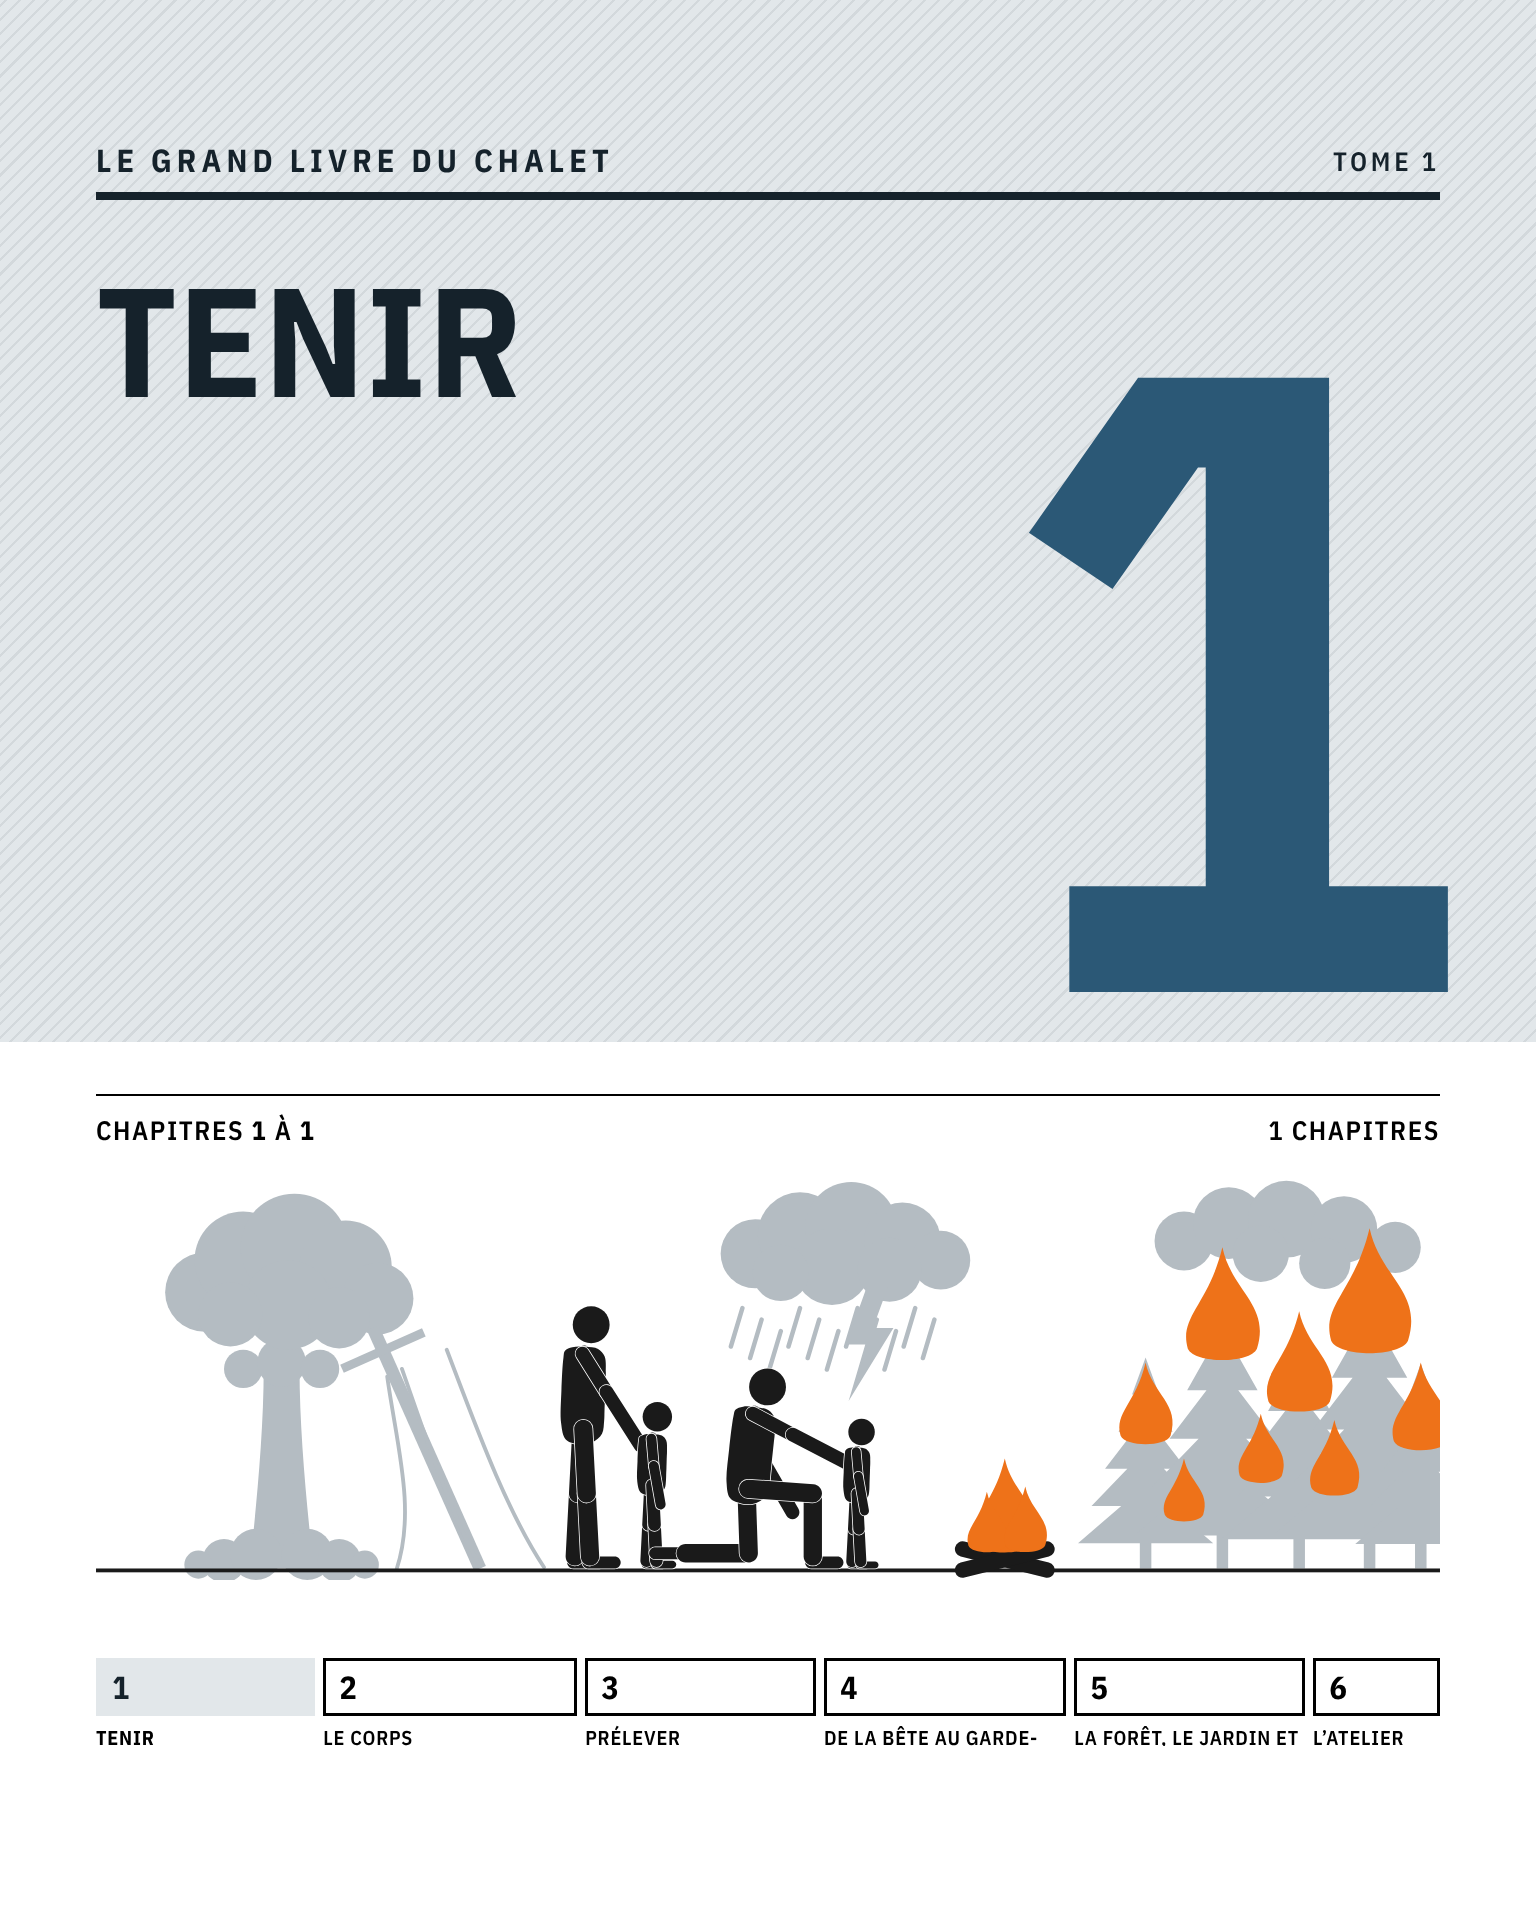
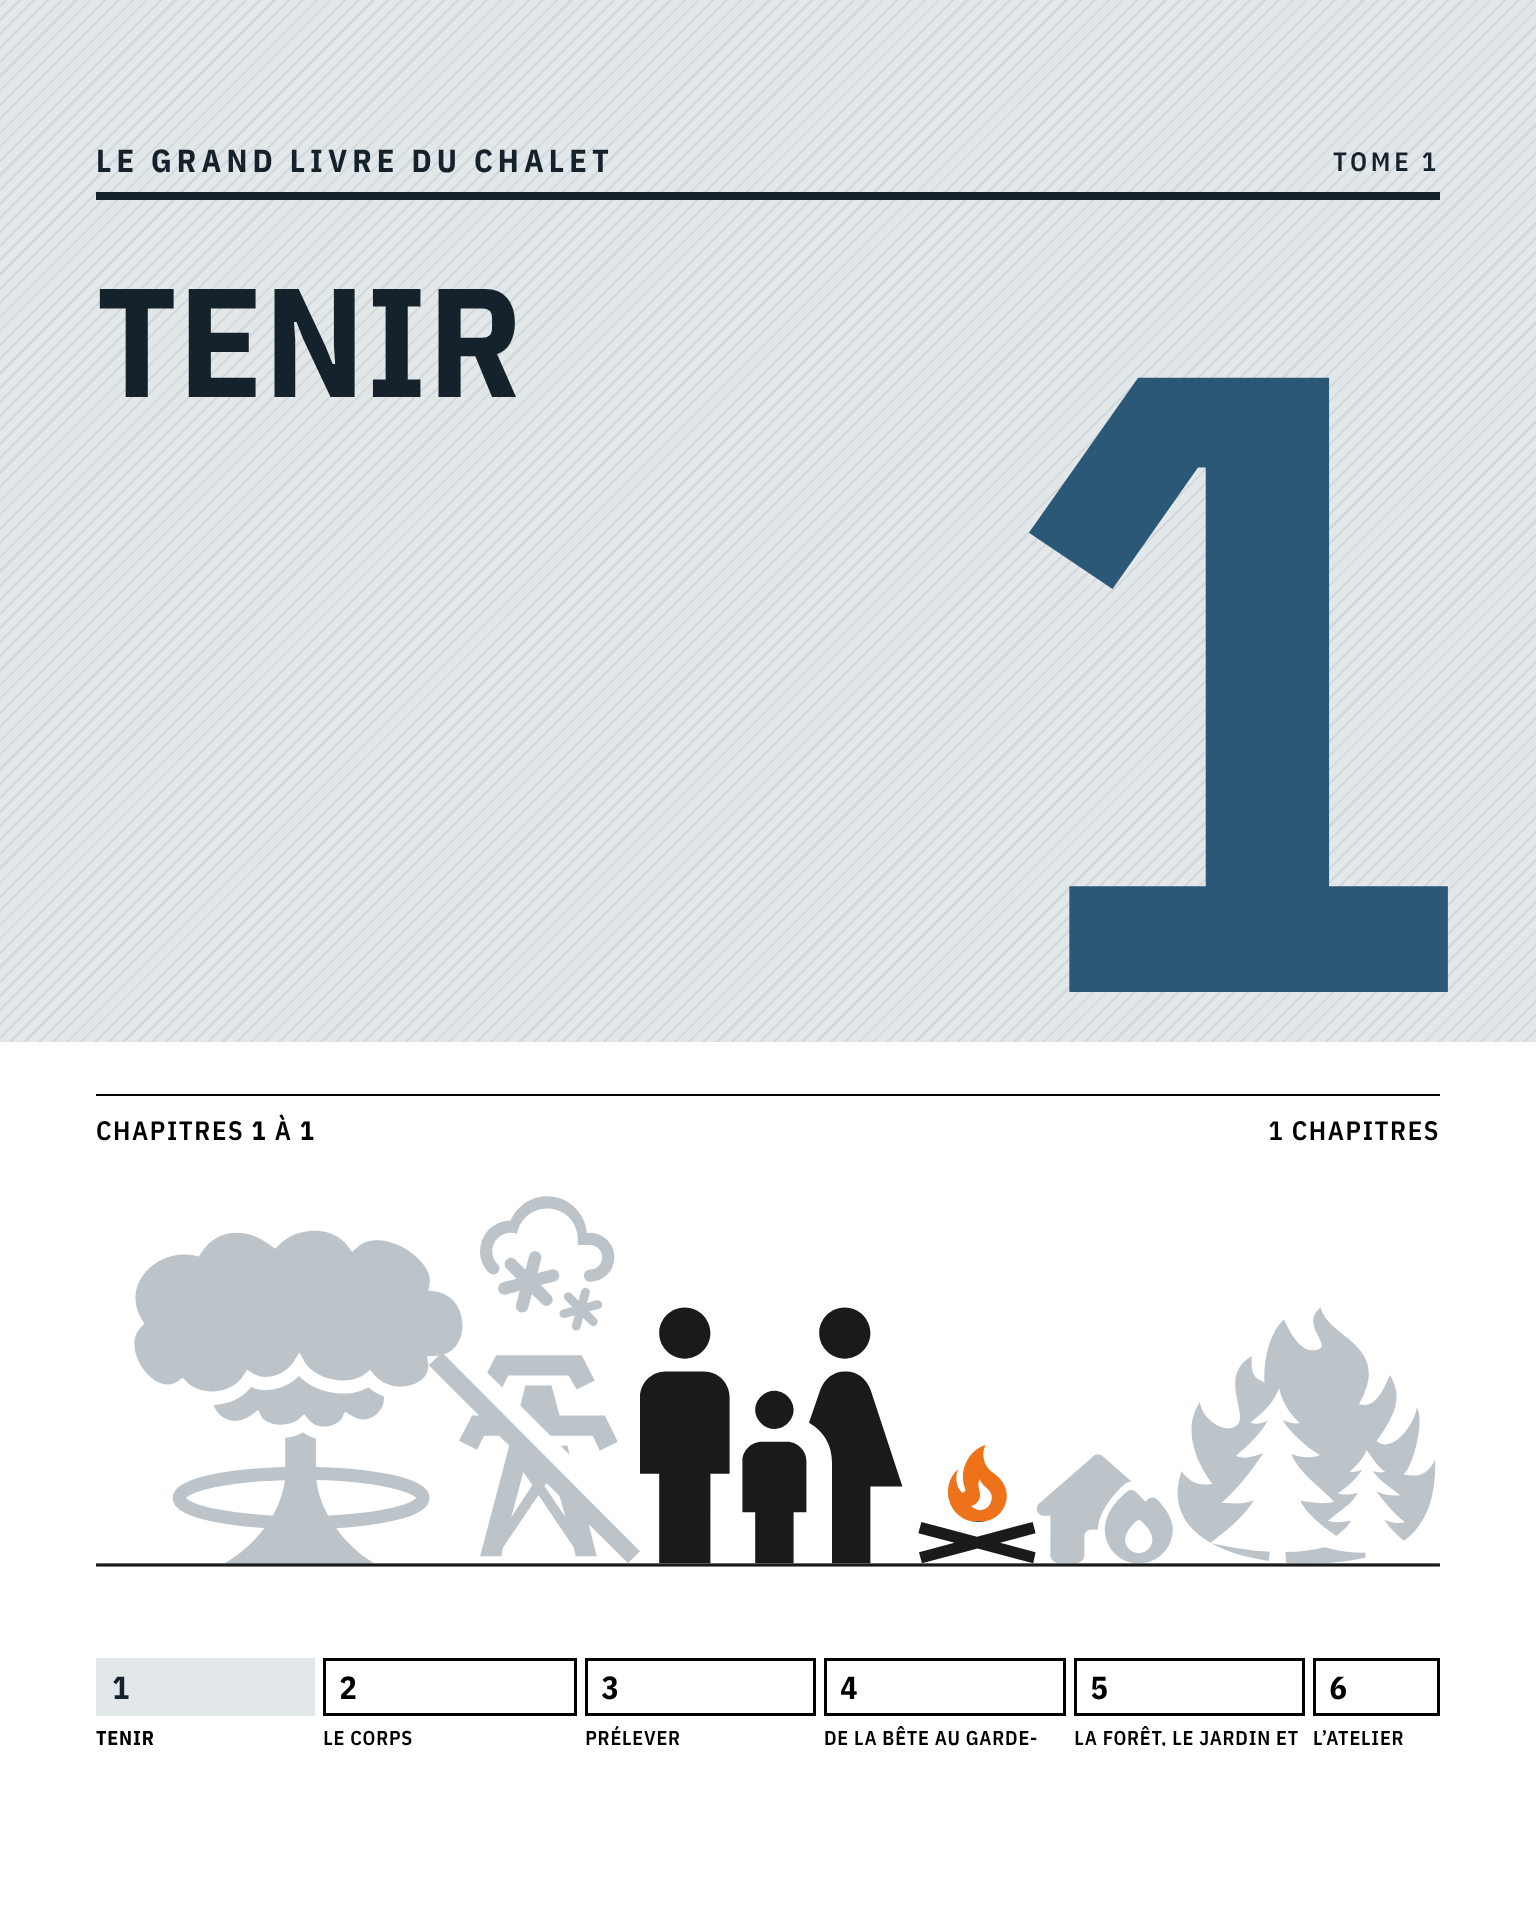
Page de titre du tome 1 : frise refaite avec des pictogrammes professionnels libres
Claude-Session: https://claude.ai/code/session_014xDY5FLxFXDJt3nYAYznSZ

Changed region(s): [[0.0625, 0.5938, 0.9375, 0.8438]]

diff --git a/images/tomes/frise.py b/images/tomes/frise.py
@@ -1,0 +1,64 @@
+"""Frises des pages de titre des tomes (plan de match, point 30 ; JP, 16 octobre 2026).
+
+Composées avec des pictogrammes de jeux professionnels sous licence libre (images/tomes/icones/, crédits dans
+images/tomes/LISEZMOI.md), pas dessinées à la main : JP a refusé l'essai dessiné avec nos formes simples.
+    python3 images/tomes/frise.py 1   →  images/tomes/tome-1.svg
+"""
+import os, re, sys
+from svgpathtools import parse_path
+
+ICI = os.path.dirname(os.path.abspath(__file__))
+NOIR, GRIS, OR = "#1A1A1A", "#BCC4CA", "#EE7219"
+W, H, SOL = 2100, 630, 604
+
+
+def icone(nom):
+    s = open(os.path.join(ICI, "icones", nom + ".svg")).read()
+    ds = re.findall(r' d="([^"]+)"', s)
+    x0 = y0 = 1e9; x1 = y1 = -1e9
+    for d in ds:
+        a, b, c, e = parse_path(d).bbox()
+        x0, x1, y0, y1 = min(x0, a), max(x1, b), min(y0, c), max(y1, e)
+    return ds, (x0, y0, x1, y1)
+
+
+def poser(nom, x, bas, haut, coul, miroir=False, coupe=None):
+    """L'icône, sa boîte de contenu posée avec le coin bas gauche en (x, bas), haute de `haut`.
+    coupe=(y_icone, coul_dessous) : sous cette ligne (en unités de l'icône), une autre couleur."""
+    ds, (x0, y0, x1, y1) = icone(nom)
+    k = haut / (y1 - y0); l = (x1 - x0) * k
+    if miroir:
+        t = f"translate({x + l:.1f} {bas - haut:.1f}) scale({-k:.4f} {k:.4f}) translate({-x0:.3f} {-y0:.3f})"
+    else:
+        t = f"translate({x:.1f} {bas - haut:.1f}) scale({k:.4f}) translate({-x0:.3f} {-y0:.3f})"
+    corps = "".join(f'<path d="{d}"/>' for d in ds)
+    if not coupe:
+        return f'<g transform="{t}" fill="{coul}">{corps}</g>', l
+    yc, c2 = coupe
+    i = abs(hash((nom, x)))
+    return (f'<g transform="{t}"><clipPath id="h{i}"><rect x="-1e4" y="-1e4" width="2e4" height="{1e4 + yc}"/></clipPath>'
+            f'<clipPath id="b{i}"><rect x="-1e4" y="{yc}" width="2e4" height="2e4"/></clipPath>'
+            f'<g fill="{coul}" clip-path="url(#h{i})">{corps}</g><g fill="{c2}" clip-path="url(#b{i})">{corps}</g></g>'), l
+
+
+def tome1():
+    o = []
+    o.append(poser("game-icons--mushroom-cloud", 60, SOL, 520, GRIS)[0])
+    o.append(poser("mdi--transmission-tower-off", 520, SOL, 330, GRIS)[0])
+    o.append(poser("mdi--weather-snowy-heavy", 600, 240, 210, GRIS)[0])
+    o.append(poser("fa6-solid--house-fire", 1470, SOL, 170, GRIS)[0])
+    o.append(poser("game-icons--burning-forest", 1690, SOL, 400, GRIS)[0])
+    # la famille, serrée, devant le feu
+    g, l = poser("mdi--human-male-female-child", 850, SOL, 400, NOIR)
+    o.append(g)
+    o.append(poser("mdi--campfire", 1285, SOL, 185, OR, coupe=(14.9, NOIR))[0])
+    o.append(f'<rect x="0" y="{SOL}" width="{W}" height="5" fill="{NOIR}"/>')
+    return o
+
+
+if __name__ == "__main__":
+    t = sys.argv[1] if len(sys.argv) > 1 else "1"
+    o = {"1": tome1}[t]()
+    svg = f'<svg xmlns="http://www.w3.org/2000/svg" viewBox="0 0 {W} {H}" width="{W}" height="{H}">\n' + "\n".join(o) + "\n</svg>\n"
+    open(os.path.join(ICI, f"tome-{t}.svg"), "w").write(svg)
+    print(f"images/tomes/tome-{t}.svg")

diff --git a/images/credits.md b/images/credits.md
@@ -1037,3 +1037,9 @@ depuis un lac. Licences relues sur l'API de Wikimedia Commons au téléchargemen
 | `photos/manquantes/11-colonne-couchee-par-le-vent.jpg` | Colonne de fumée sombre couchée par le vent, vue d'un lac | Greg Seitz (Gregseitz) | CC BY-SA 4.0 | https://commons.wikimedia.org/wiki/File:Pagami_Creek_Fire.jpg |
 | `photos/manquantes/11-colonne-chou-fleur.jpg` | Colonne qui monte droit et finit en chou-fleur blanc, vue d'un lac | Stephen Handler, United States Forest Service | Domaine public | https://commons.wikimedia.org/wiki/File:Pagami_fire_plume.jpg |
 | `photos/manquantes/11-colonnes-de-fumee.jpg` | Les deux photos précédentes côte à côte (montage du 15 octobre 2026, celle qui s'imprime) | Greg Seitz ; Stephen Handler, United States Forest Service | CC BY-SA 4.0 (volet de gauche) ; domaine public (volet de droite) | voir les deux lignes précédentes |
+
+## Pages de titre des tomes (images/tomes/)
+
+- Champignon atomique, forêt en feu : Game-icons.net (Lorc, Delapouite), CC BY 3.0, https://game-icons.net
+- Famille, feu de camp, pylône coupé, neige : Material Design Icons (Pictogrammers), Apache 2.0, https://pictogrammers.com
+- Maison en feu : Font Awesome 6 Free (Fonticons), CC BY 4.0, https://fontawesome.com

diff --git a/suivi/plan-de-match.md b/suivi/plan-de-match.md
@@ -302,7 +302,8 @@ tomes** : un peu plus de blanc en bas des pages qui précèdent une planche ; le
     pictogrammes : familles, catastrophes, feu, chasse, atelier), converti comme les mains et composé ; ou une image
     faite par JP avec un générateur d'images, à partir du brief `images/tomes/brief-images-tomes.md`. **La
     couverture aussi** reçoit son image, dans le même style. La frise d'essai et `.tp-frise` restent comme
-    emplacement ; `images/tomes/tome-1.svg` se remplace.
+    emplacement ; `images/tomes/tome-1.svg` se remplace. Deuxième essai le 16 octobre : la frise composée avec des
+    pictogrammes professionnels libres (`images/tomes/frise.py`, crédits dans `images/tomes/LISEZMOI.md`).
 
 Le **ch. 11 (feu de forêt)** est **le chapitre modèle de la refonte, approuvé par JP** (15 octobre au soir :
 « c'est parfait, on se garde ça pour samedi ») : texte, trois séries orange à la longueur de leur temps (1 h,

diff --git a/images/tomes/LISEZMOI.md b/images/tomes/LISEZMOI.md
@@ -1,0 +1,13 @@
+# Les images des pages de titre des tomes
+
+`frise.py N` compose `tome-N.svg` ; l'assembleur la pose dans la bande blanche de la page de titre (`.tp-frise`).
+Les pictogrammes viennent de jeux professionnels sous licence libre, copiés dans `icones/` (paquets npm
+`@iconify-json/…`) ; aucun n'est dessiné à la main (JP, 16 octobre 2026, sur l'essai dessiné : « c'est laid »).
+
+| Fichier | Jeu | Auteur | Licence |
+| --- | --- | --- | --- |
+| `game-icons--mushroom-cloud`, `game-icons--burning-forest` | Game-icons.net | Lorc, Delapouite et contributeurs | CC BY 3.0 |
+| `mdi--*` | Material Design Icons | Pictogrammers | Apache 2.0 |
+| `fa6-solid--house-fire` | Font Awesome 6 Free | Fonticons (Dave Gandy) | CC BY 4.0 |
+
+Ces lignes vont aussi dans `images/credits.md` (copie hors livre par tome, comme les autres crédits).
